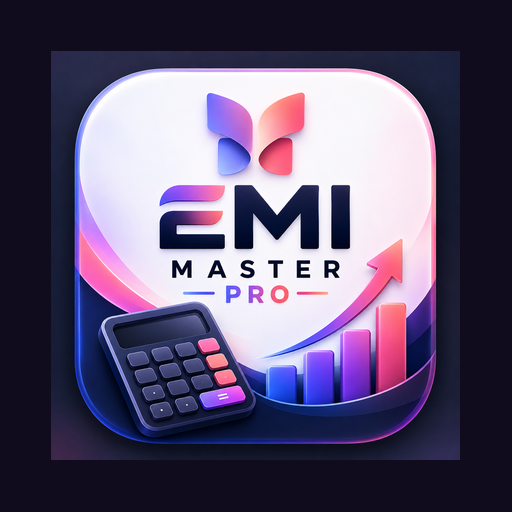
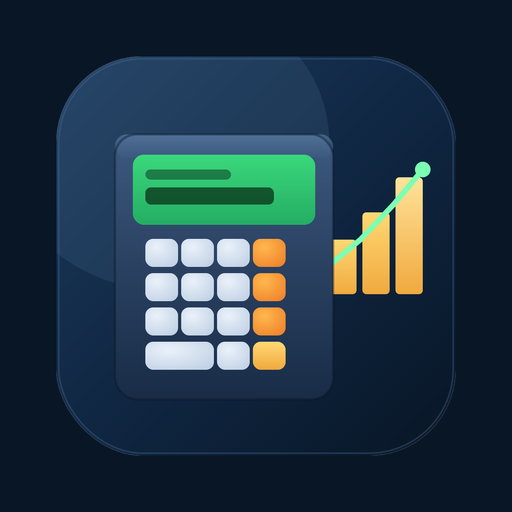
Add files via upload

diff --git a/HEAD_SNIPPET.html b/HEAD_SNIPPET.html
@@ -1,0 +1,26 @@
+<!--
+  =========================================================================
+  MEKA oyage index.html file eke <head> ...</head> tag athara,
+  <title> tag eken passe copy-paste karanna.
+  Mevata pera thibena <meta name="viewport"...> tag eka replace karanna epaa,
+  eeka thiyena widihatama thiyanna. Meka additional widihata add karanna.
+  =========================================================================
+-->
+
+<!-- PWA Manifest (Android home screen install + icon) -->
+<link rel="manifest" href="manifest.json">
+<meta name="theme-color" content="#0F2540">
+
+<!-- iOS Home Screen Icon -->
+<meta name="apple-mobile-web-app-capable" content="yes">
+<meta name="apple-mobile-web-app-status-bar-style" content="black-translucent">
+<meta name="apple-mobile-web-app-title" content="EMI Master">
+<link rel="apple-touch-icon" href="icons/apple-touch-icon.png">
+<link rel="apple-touch-icon" sizes="152x152" href="icons/icon-152.png">
+<link rel="apple-touch-icon" sizes="167x167" href="icons/icon-167.png">
+<link rel="apple-touch-icon" sizes="180x180" href="icons/icon-180.png">
+
+<!-- Favicon / Android -->
+<link rel="icon" type="image/png" sizes="192x192" href="icons/icon-192.png">
+<link rel="icon" type="image/png" sizes="32x32" href="icons/favicon-32.png">
+<link rel="icon" type="image/png" sizes="16x16" href="icons/favicon-16.png">
